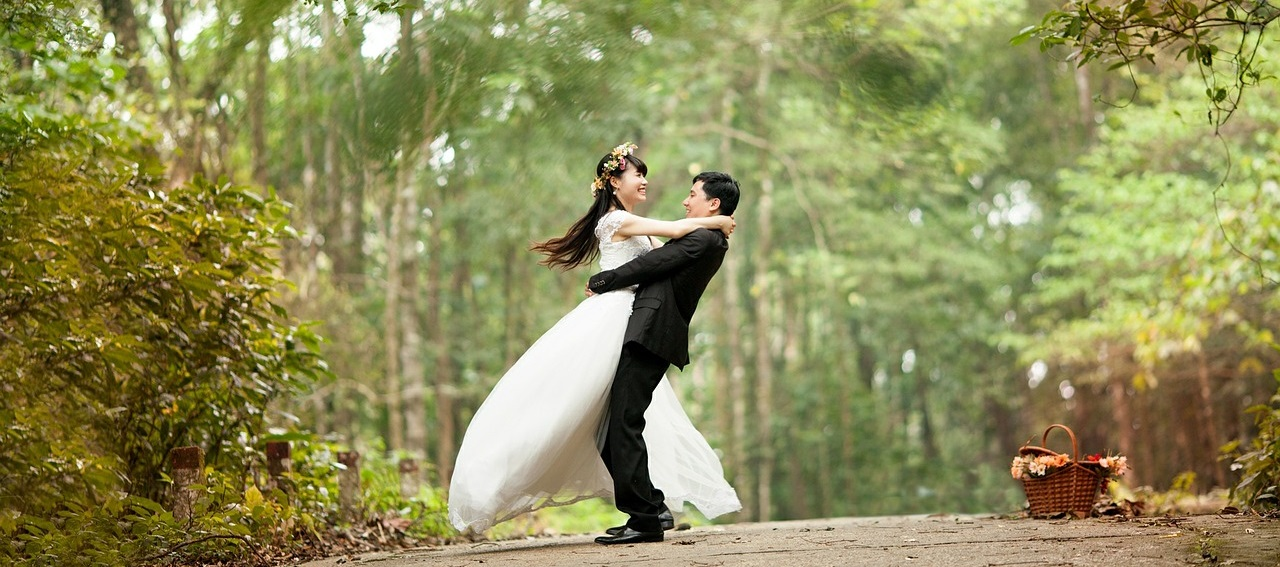
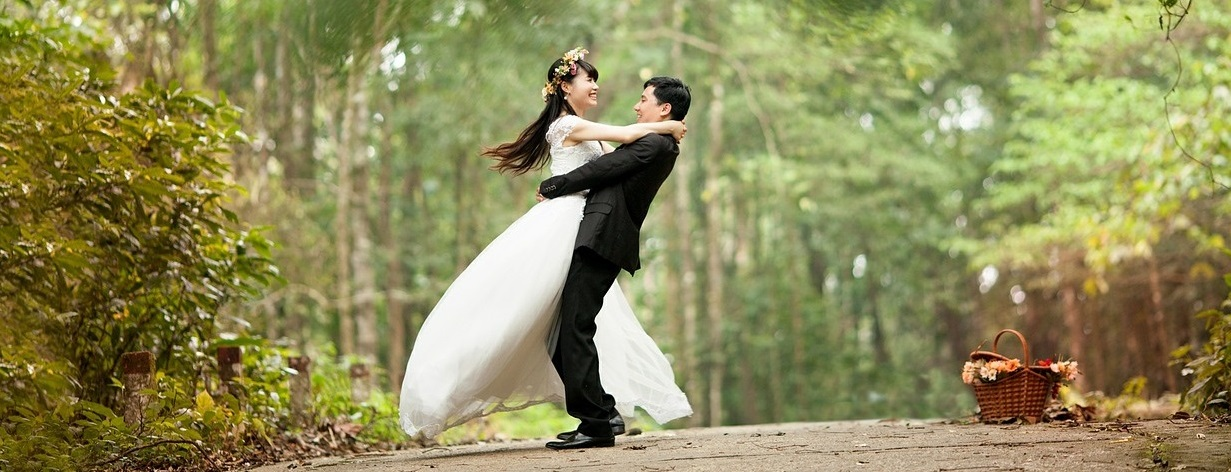
Commit Changes

diff --git a/module 02/project/index.html b/module 02/project/index.html
@@ -9,7 +9,8 @@ img {vertical-align: middle;}
 
 /* Slideshow container */
 .slideshow-container {
-  max-width: 1000px;
+  max-width: 800px;
+  max-height: 300px;
   position: relative;
   margin: auto;
 }
